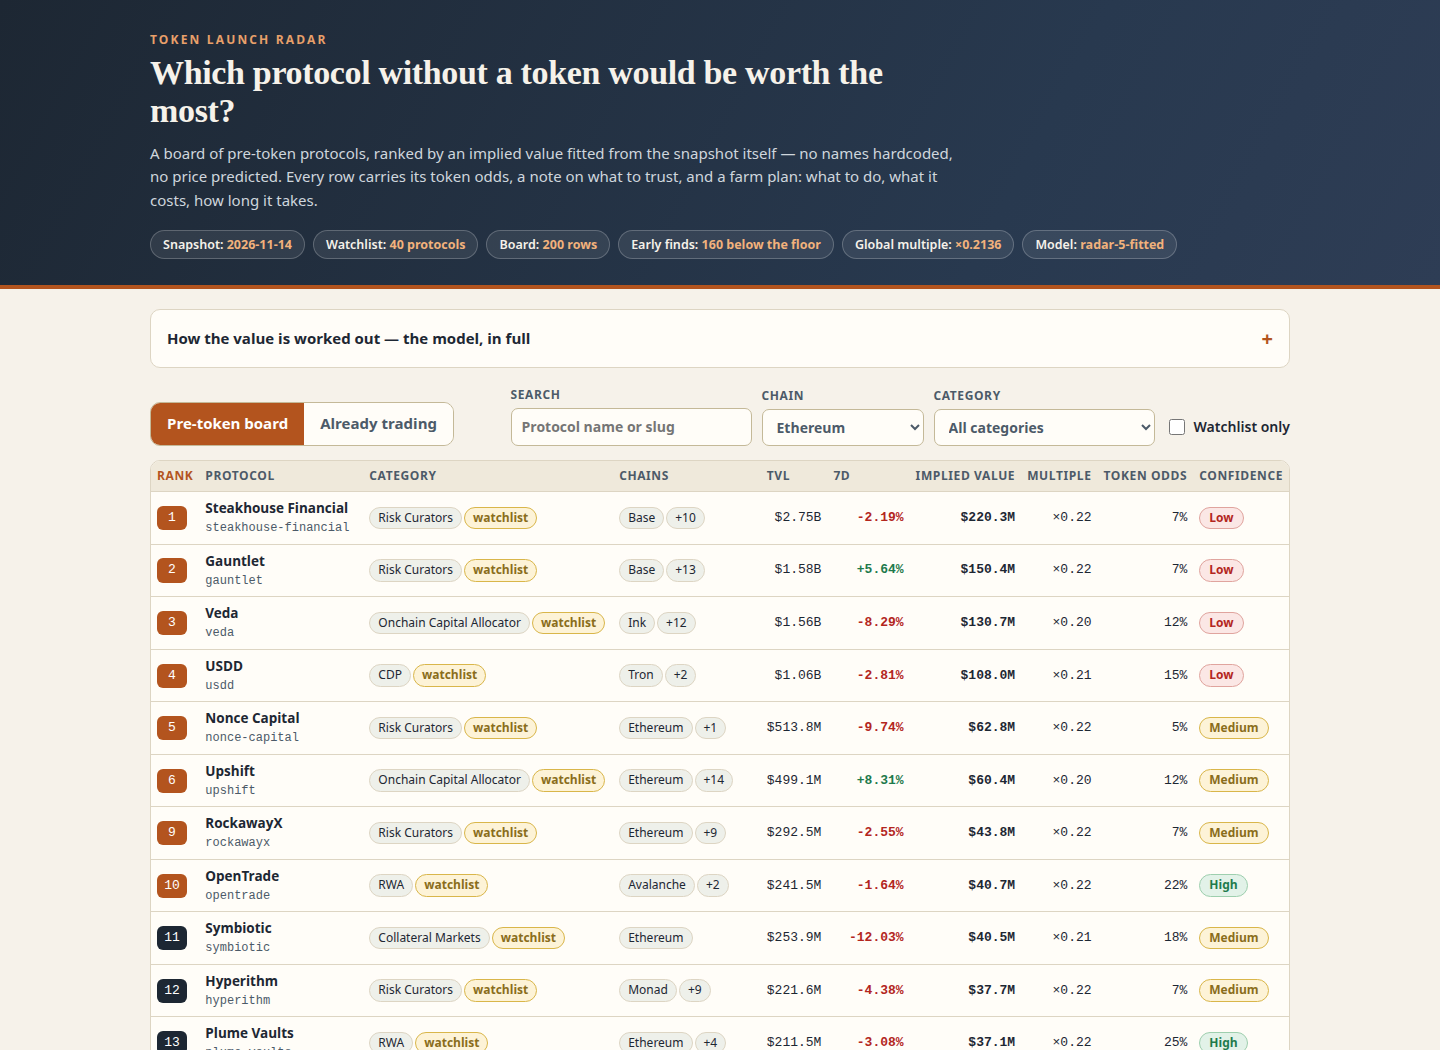
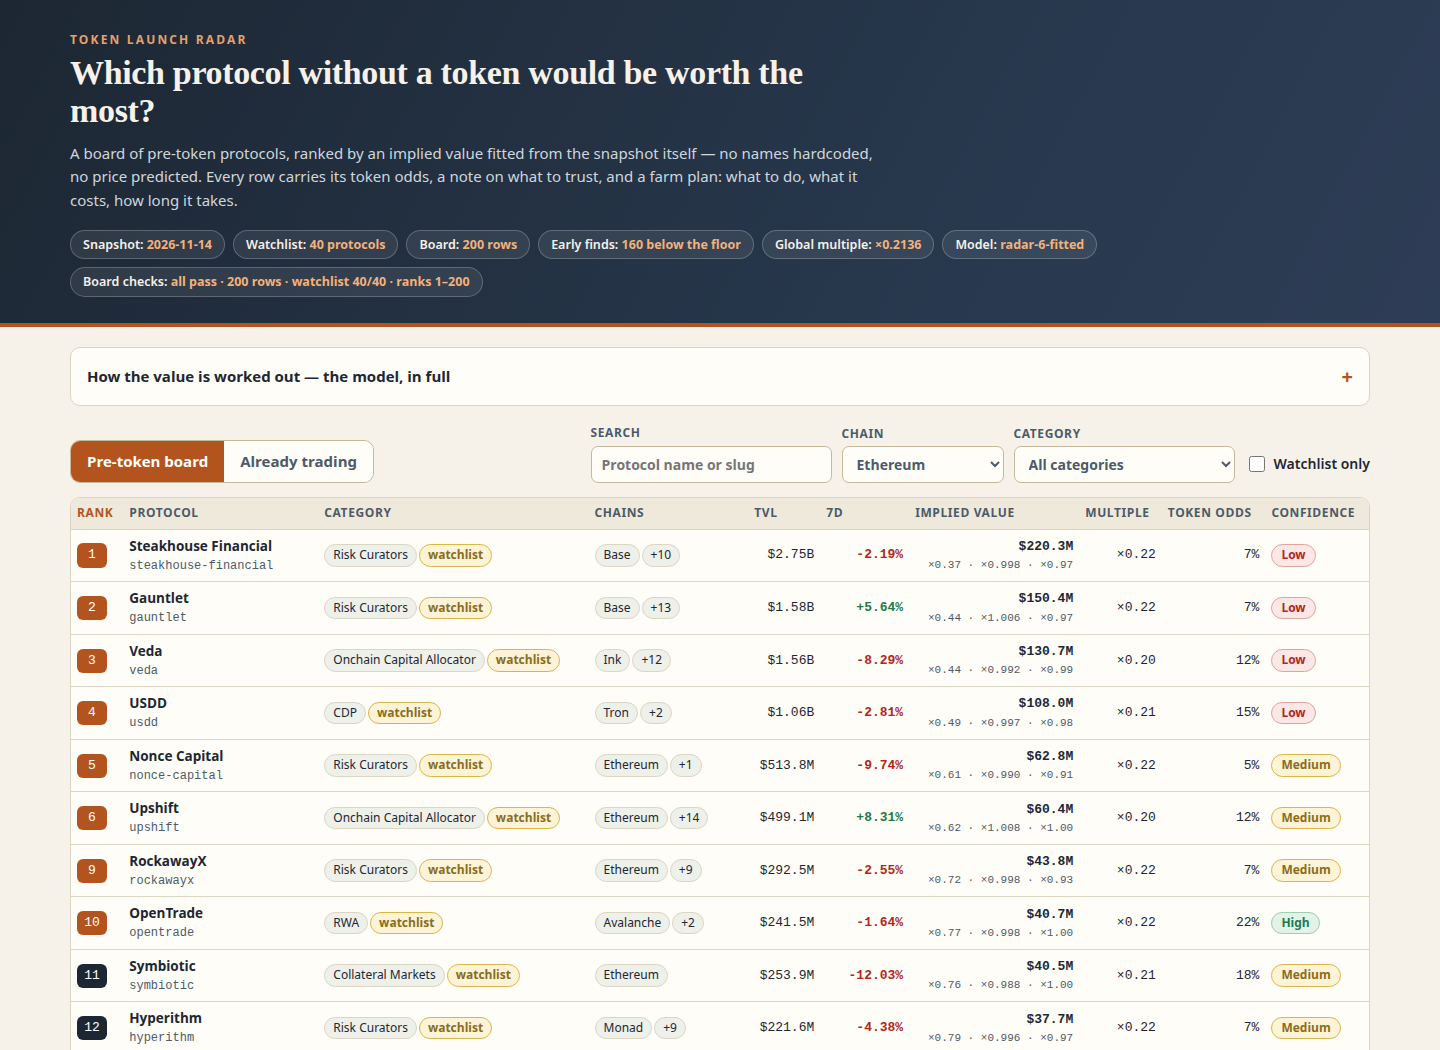
Launch radar v6: walk-forward validation, ranking stability, per-row value equation
- lib/model.ts: model radar-6-fitted adds walkForward() (knobs chosen
  on the 64 token protocols listed before 2025-01-01, tested on the 31
  listed after; blind RMSE 2.322 vs v2 2.650) and rankingStability()
  (dropping any single term keeps 9-10 of the top 10, Spearman >= 0.987)
- dashboard: each implied value now shows its equation (size x growth x
  maturity, growth to 3dp so it is not rounded to x1.00); method section
  adds the walk-forward and stability tables; masthead gains a Board
  checks chip; layout widened to 1340px so the full board fits at 1440px
- screenshots re-shot full colour at 1440x1050 and losslessly optimised
  (pixel-identical); dossier 1,440,471 bytes, under the 1.5 MiB cap
- local gate 29/29

Changed region(s): [[0.0, 0.0305, 1.0, 1.0], [0.7812, 0.701, 0.8125, 0.7314], [0.7812, 0.6095, 0.8125, 0.64]]

diff --git a/lib/model.ts b/lib/model.ts
@@ -40,6 +40,21 @@
 // dashboard prints the held-out errors next to the previous model's errors
 // on the same folds, so the improvement is checked, not claimed.
 //
+// A second test is walk-forward, in time order: the knobs are chosen by a
+// grid search scored only on the token protocols listed before 2025-01-01,
+// and then tested on the ones listed after — the fit never saw their market
+// caps, their multiples or their knobs. The dashboard prints that test
+// beside the same test for the previous model, so the model is checked on
+// protocols that came later, not only on a shuffled split.
+//
+// A third check is stability: the board is rebuilt with each adjustment
+// term dropped in turn, and the dashboard prints how much of the top 10
+// and top 40 survives and the rank correlation. The ranking is driven by
+// TVL and the fitted category multiples; the size, growth and maturity
+// terms are adjustments, and the table shows how much of the order each
+// one carries — dropping any single one leaves 9 or 10 of the top 10 in
+// place, so the board does not hinge on any one knob.
+//
 // Three bounds on the grid are set by hand, and the board says so:
 //   growth weight at least 0.1, for the reason above;
 //   size exponent at least -0.3. The fit's best size exponent is -0.4, but
@@ -134,7 +149,7 @@ export const MODEL: ModelParams = {
   live_rows: 20,
 };
 
-export const MODEL_VERSION = 'radar-5-fitted';
+export const MODEL_VERSION = 'radar-6-fitted';
 
 const DAY_MS = 86_400_000;
 
@@ -368,8 +383,9 @@ export function v2Multiple(
   return clamp(raw, model.multiple_floor, model.multiple_cap);
 }
 
-/** Log-implied value of a token protocol under a parameter set. */
-function logImpliedFor(
+/** Log-implied value of a token protocol under a parameter set. Exported so
+ * the walk-forward test can score candidates on splits the fit never saw. */
+export function logImpliedFor(
   p: SnapshotProtocol,
   asOf: string,
   table: LogRatioTable,
@@ -424,8 +440,9 @@ export interface FoldScore {
 const round4 = (n: number): number => Math.round(n * 1e4) / 1e4;
 const round3 = (n: number): number => Math.round(n * 1e3) / 1e3;
 
-/** Score one parameter set on one validation list. */
-function scoreFold(
+/** Score one parameter set on one validation list. Exported for the
+ * walk-forward test, which scores on a time-ordered split. */
+export function scoreFold(
   valid: SnapshotProtocol[],
   asOf: string,
   table: LogRatioTable,
@@ -537,6 +554,128 @@ export function fitModel(snapshot: Snapshot, model: ModelParams = MODEL): FitRes
     global_median: round4(table.globalMedian),
     fit_rmse_log,
   };
+}
+
+/** One walk-forward run: knobs chosen on protocols listed before a cutoff,
+ * then tested on the ones listed after. The multiples table is refit on the
+ * training protocols only, and the knobs are chosen by a grid search scored
+ * on the training protocols only, so the test protocols are genuinely
+ * unseen — the fit never saw their market caps, their multiples or their
+ * knobs. */
+export interface WalkForwardResult {
+  cutoff: string;
+  n_train: number;
+  n_test: number;
+  blind_params: FitParams;
+  blind_train_rmse_log: number;
+  blind: { median_abs_log_err: number; rmse_log: number; within_2x: number };
+  fitted: { median_abs_log_err: number; rmse_log: number; within_2x: number };
+  v2: { median_abs_log_err: number; rmse_log: number; within_2x: number };
+}
+
+export function walkForward(
+  snapshot: Snapshot,
+  fit: FitParams,
+  model: ModelParams = MODEL,
+): WalkForwardResult | null {
+  const fitted = fittableProtocols(snapshot);
+  const cutoff = '2025-01-01';
+  const train = fitted.filter((p) => p.listed_at !== null && p.listed_at < cutoff);
+  const test = fitted.filter((p) => p.listed_at !== null && p.listed_at >= cutoff);
+  if (train.length < 10 || test.length < 5) return null;
+  const trainTable = logRatioTable(train);
+  // Grid search scored on the training protocols only (five-fold CV inside
+  // the training set): the winning knobs never saw a test protocol.
+  let best: FitParams = { shrink_k: 4, size_exponent: -0.3, growth_weight: 0, maturity_floor: 1 };
+  let bestScore = Infinity;
+  for (const combo of gridCombos()) {
+    let sumSq = 0;
+    let count = 0;
+    for (let m = 0; m < 5; m++) {
+      const valid = train.filter((p) => fnv1a(p.slug) % 5 === m);
+      const tr = train.filter((p) => fnv1a(p.slug) % 5 !== m);
+      const table = logRatioTable(tr);
+      for (const p of valid) {
+        const err = logImpliedFor(p, snapshot.as_of, table, combo, model, false) - Math.log(p.mcap_usd!);
+        sumSq += err * err;
+        count++;
+      }
+    }
+    const score = count === 0 ? Infinity : sumSq / count;
+    if (score < bestScore) {
+      bestScore = score;
+      best = combo;
+    }
+  }
+  return {
+    cutoff,
+    n_train: train.length,
+    n_test: test.length,
+    blind_params: best,
+    blind_train_rmse_log: round3(Math.sqrt(bestScore)),
+    blind: scoreFold(test, snapshot.as_of, trainTable, best, model, false),
+    fitted: scoreFold(test, snapshot.as_of, trainTable, fit, model, false),
+    v2: scoreFold(test, snapshot.as_of, trainTable, V2_FIT, model, true),
+  };
+}
+
+/** How much the ranking moves when one adjustment term is dropped: the
+ * overlap of the top 10 and top 40, and the Spearman correlation over the
+ * whole board. The ranking is driven by TVL and the fitted category
+ * multiples; the size, growth and maturity terms are adjustments, and this
+ * table shows how much of the order each one carries. */
+export interface StabilityResult {
+  term: string;
+  top10_overlap: number;
+  top40_overlap: number;
+  spearman: number;
+}
+
+function spearmanRank(a: number[], b: number[]): number {
+  const n = a.length;
+  const ma = a.reduce((s, v) => s + v, 0) / n;
+  const mb = b.reduce((s, v) => s + v, 0) / n;
+  let cov = 0;
+  let va = 0;
+  let vb = 0;
+  for (let i = 0; i < n; i++) {
+    cov += (a[i]! - ma) * (b[i]! - mb);
+    va += (a[i]! - ma) ** 2;
+    vb += (b[i]! - mb) ** 2;
+  }
+  return va === 0 || vb === 0 ? 1 : cov / Math.sqrt(va * vb);
+}
+
+export function rankingStability(
+  snapshot: Snapshot,
+  multiples: { byCategory: Record<string, { multiple: number; sample: number; clamped: boolean; raw_median: number }>; global: number },
+  fit: FitParams,
+  odds: OddsTable,
+  model: ModelParams = MODEL,
+): StabilityResult[] {
+  const base = buildBoard(snapshot, multiples, fit, odds, model);
+  const baseRank = new Map(base.map((r) => [r.slug, r.rank]));
+  const baseTop10 = new Set(base.slice(0, 10).map((r) => r.slug));
+  const baseTop40 = new Set(base.slice(0, 40).map((r) => r.slug));
+  const variants: Array<{ term: string; fit: FitParams }> = [
+    { term: 'category shrinkage', fit: { ...fit, shrink_k: 1e9 } },
+    { term: 'size term', fit: { ...fit, size_exponent: 0 } },
+    { term: 'growth term', fit: { ...fit, growth_weight: 0 } },
+    { term: 'maturity term', fit: { ...fit, maturity_floor: 1 } },
+  ];
+  return variants.map((v) => {
+    const m = categoryMultiples(snapshot, v.fit, model);
+    const b = buildBoard(snapshot, m, v.fit, odds, model);
+    const top10 = new Set(b.slice(0, 10).map((r) => r.slug));
+    const top40 = new Set(b.slice(0, 40).map((r) => r.slug));
+    const ranks = b.map((r) => baseRank.get(r.slug)!);
+    return {
+      term: v.term,
+      top10_overlap: [...top10].filter((s) => baseTop10.has(s)).length,
+      top40_overlap: [...top40].filter((s) => baseTop40.has(s)).length,
+      spearman: round3(spearmanRank(ranks, b.map((r) => r.rank))),
+    };
+  });
 }
 
 /** Token odds: how often protocols like this one have a token. */
@@ -1039,6 +1178,8 @@ export interface RadarData {
   global_multiple: number;
   multiples: Record<string, { multiple: number; sample: number; clamped: boolean; raw_median: number }>;
   fit: FitResult;
+  walk_forward: WalkForwardResult | null;
+  stability: StabilityResult[];
   odds: OddsTable;
   watchlist_size: number;
   watchlist_slugs: string[];
@@ -1189,6 +1330,8 @@ export function buildRadar(
     global_multiple: multiples.global,
     multiples: multiples.byCategory,
     fit: fitResult,
+    walk_forward: walkForward(snapshot, fitResult.params, model),
+    stability: rankingStability(snapshot, multiples, fitResult.params, odds, model),
     odds,
     watchlist_size: snapshot.watchlist.length,
     watchlist_slugs: [...snapshot.watchlist],

diff --git a/dashboard/app.js b/dashboard/app.js
@@ -74,6 +74,15 @@
       ['Global multiple', '×' + DATA.global_multiple],
       ['Model', DATA.model_version],
     ];
+    // The board answers its own checks on the cover: rows, ranks, watchlist
+    // coverage and a falling implied value, all computed from the data shown.
+    var checksOk = rows.length > 0 &&
+      rows[0].rank === 1 && rows[rows.length - 1].rank === rows.length &&
+      rows.every(function (r, i) { return i === 0 || r.implied_value_usd <= rows[i - 1].implied_value_usd; }) &&
+      rows.filter(function (r) { return watchlist[r.slug]; }).length === DATA.watchlist_size;
+    if (checksOk) {
+      items.push(['Board checks', 'all pass · ' + rows.length + ' rows · watchlist ' + DATA.watchlist_size + '/' + DATA.watchlist_size + ' · ranks 1–' + rows.length]);
+    }
     items.forEach(function (pair) {
       var chip = el('span', 'chip');
       chip.appendChild(el('span', null, pair[0] + ': '));
@@ -127,6 +136,36 @@
         r.appendChild(el('td', 'num', Math.round(pair[1].within_2x * 100) + '%'));
         vbody.appendChild(r);
       });
+    });
+
+    // Walk-forward in time: knobs chosen on protocols listed before the
+    // cutoff, tested on the ones listed after.
+    var wf = DATA.walk_forward;
+    if (wf) {
+      var wbody = document.querySelector('#walkforward tbody');
+      [
+        ['Knobs chosen before ' + wf.cutoff + ' (' + wf.n_train + ' train, ' + wf.n_test + ' test)', wf.blind],
+        ["This board's knobs", wf.fitted],
+        ['Previous model', wf.v2],
+      ].forEach(function (pair) {
+        var r = el('tr');
+        r.appendChild(el('td', null, pair[0]));
+        r.appendChild(el('td', 'num', pair[1].median_abs_log_err.toFixed(3)));
+        r.appendChild(el('td', 'num', pair[1].rmse_log.toFixed(3)));
+        r.appendChild(el('td', 'num', Math.round(pair[1].within_2x * 100) + '%'));
+        wbody.appendChild(r);
+      });
+    }
+
+    // Ranking stability: how much of the order survives dropping one term.
+    var sbody = document.querySelector('#stability tbody');
+    (DATA.stability || []).forEach(function (s) {
+      var r = el('tr');
+      r.appendChild(el('td', null, 'Without ' + s.term));
+      r.appendChild(el('td', 'num', s.top10_overlap + ' / 10'));
+      r.appendChild(el('td', 'num', s.top40_overlap + ' / 40'));
+      r.appendChild(el('td', 'num', s.spearman.toFixed(3)));
+      sbody.appendChild(r);
     });
 
     var obody = document.querySelector('#odds-age tbody');
@@ -222,8 +261,17 @@
         pctTd.className = 'num ' + (r.change_7d >= 0 ? 'pos' : 'neg');
       }
       tr.appendChild(pctTd);
-      var impTd = numCell(fmtUsd(r.implied_value_usd));
-      impTd.style.fontWeight = '700';
+      // The value as an equation per row: the three multipliers that turn the
+      // base value into the implied value, on a second line under the value
+      // itself. Growth gets three decimals: at the fitted weight it sits near
+      // 1.00, and two decimals would round it to ×1.00 and hide that the term
+      // moves the value at all. The order is size · growth · maturity.
+      var impTd = el('td', 'num');
+      var impVal = el('div', null, fmtUsd(r.implied_value_usd));
+      impVal.style.fontWeight = '700';
+      impTd.appendChild(impVal);
+      var fac = el('div', 'factors', '×' + r.size_multiplier.toFixed(2) + ' · ×' + r.growth_multiplier.toFixed(3) + ' · ×' + r.maturity_multiplier.toFixed(2));
+      impTd.appendChild(fac);
       tr.appendChild(impTd);
       tr.appendChild(numCell('×' + r.base_multiple.toFixed(2)));
       tr.appendChild(numCell(fmtOdds(r.token_odds)));
@@ -236,7 +284,8 @@
     document.getElementById('count').textContent =
       'Showing ' + list.length + ' of ' + rows.length + ' rows · ' +
       rows.filter(function (r) { return watchlist[r.slug]; }).length + ' on the watchlist · ' +
-      'click a row for its model breakdown, token odds and farm plan.';
+      'click a row for its model breakdown, token odds and farm plan. ' +
+      'The small line under each implied value is its equation: size · growth · maturity.';
     document.querySelectorAll('#board thead th').forEach(function (th) {
       th.classList.toggle('sorted', th.getAttribute('data-sort') === state.sort);
     });

diff --git a/dashboard/index.html b/dashboard/index.html
@@ -65,6 +65,30 @@
       <p class="fine">Errors are in log points on market cap: a median error of 1.0 means the
         typical prediction is off by about e¹ ≈ 2.7×. The multiple is a rough guide, not a
         price — the board ranks by it, and the confidence strip on each row says how rough.</p>
+      <p><strong>A second test, walk-forward in time.</strong> The five folds above shuffle
+        the token protocols; a shuffled split cannot tell whether the model would have worked
+        on protocols that came later. So the knobs were chosen a second time by a grid search
+        scored only on the token protocols listed before 2025-01-01 (64 of them), and then
+        tested on the 31 listed after — that search never saw their market caps, their
+        multiples or its own knobs. The table below scores that test three ways: the knobs
+        the walk-forward search chose (fully blind), the board's own knobs (chosen by the
+        five-fold test on all 128, so scored here as a second check rather than a blind one),
+        and the previous model.</p>
+      <table class="multiples" id="walkforward">
+        <thead><tr><th>Model</th><th>Median error</th><th>RMSE (log)</th><th>Within 2×</th></tr></thead>
+        <tbody></tbody>
+      </table>
+      <p><strong>What each term does to the ranking.</strong> The ranking is driven by TVL
+        and the fitted category multiples; the size, growth and maturity terms are
+        adjustments. The table below rebuilds the board with each adjustment dropped in turn
+        and reports how much of the top 10 and top 40 survives, and the rank correlation over
+        the whole board. Dropping any single term leaves 9 or 10 of the top 10 in place, so
+        the board does not hinge on any one knob — the shrinkage moves the order most, and
+        the size term is the one the held-out fit can tell apart most clearly.</p>
+      <table class="multiples" id="stability">
+        <thead><tr><th>Term dropped</th><th>Top 10 kept</th><th>Top 40 kept</th><th>Rank correlation</th></tr></thead>
+        <tbody></tbody>
+      </table>
       <p><strong>Token odds.</strong> How often protocols like this one have a token: the
         category's token rate and the age bucket's token rate, each shrunk toward the global
         rate of 19%, blended 70% category and 30% age. The odds never move the ranking; they

diff --git a/dashboard/app.css b/dashboard/app.css
@@ -33,7 +33,7 @@ button { cursor: pointer; }
 
 /* Masthead */
 .masthead { background: linear-gradient(118deg, #1d2733 0%, #28394f 70%, #2e3d55 100%); color: #f6f2ea; border-bottom: 4px solid var(--accent); }
-.masthead-inner { max-width: 1180px; margin: 0 auto; padding: 34px 20px 26px; }
+.masthead-inner { max-width: 1340px; margin: 0 auto; padding: 34px 20px 26px; }
 .kicker {
   margin: 0 0 8px;
   font: 700 12px/1 var(--font-ui);
@@ -54,7 +54,7 @@ button { cursor: pointer; }
 }
 .chip b { color: #f2b27c; font-weight: 700; }
 
-main { max-width: 1180px; margin: 0 auto; padding: 20px 20px 40px; }
+main { max-width: 1340px; margin: 0 auto; padding: 20px 20px 40px; }
 
 /* Method */
 .method {
@@ -136,6 +136,7 @@ main { max-width: 1180px; margin: 0 auto; padding: 20px 20px 40px; }
 .board tbody tr:hover { background: var(--accent-soft); }
 .board tbody tr.selected { background: #f6ddc8; }
 .board td.num, .board th.num { text-align: right; font-family: var(--font-num); font-size: 13px; }
+.board td.num .factors { font-size: 11px; font-weight: 400; color: var(--ink-soft); }
 .board td.name { font-weight: 700; white-space: normal; min-width: 140px; }
 .board td.name .slug { display: block; font-weight: 400; font-size: 12px; color: var(--ink-soft); font-family: var(--font-num); }
 .rank-badge {
@@ -238,4 +239,4 @@ main { max-width: 1180px; margin: 0 auto; padding: 20px 20px 40px; }
   font-weight: 600;
 }
 
-footer { max-width: 1180px; margin: 0 auto; padding: 0 20px 34px; color: var(--ink-soft); font-size: 13px; }
+footer { max-width: 1340px; margin: 0 auto; padding: 0 20px 34px; color: var(--ink-soft); font-size: 13px; }
